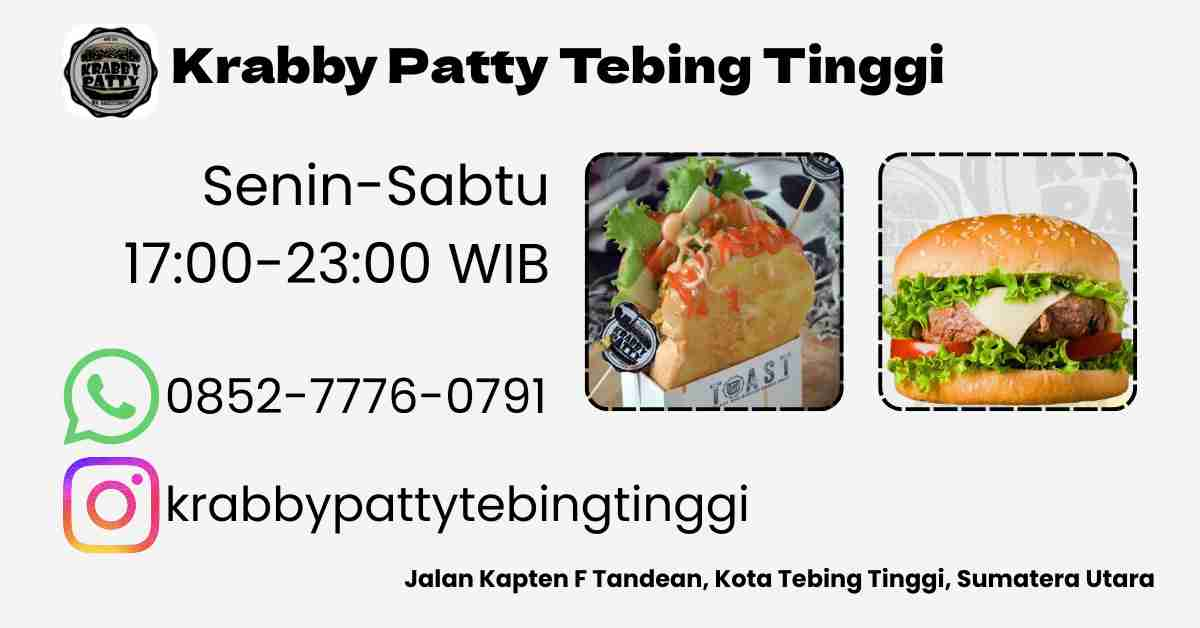
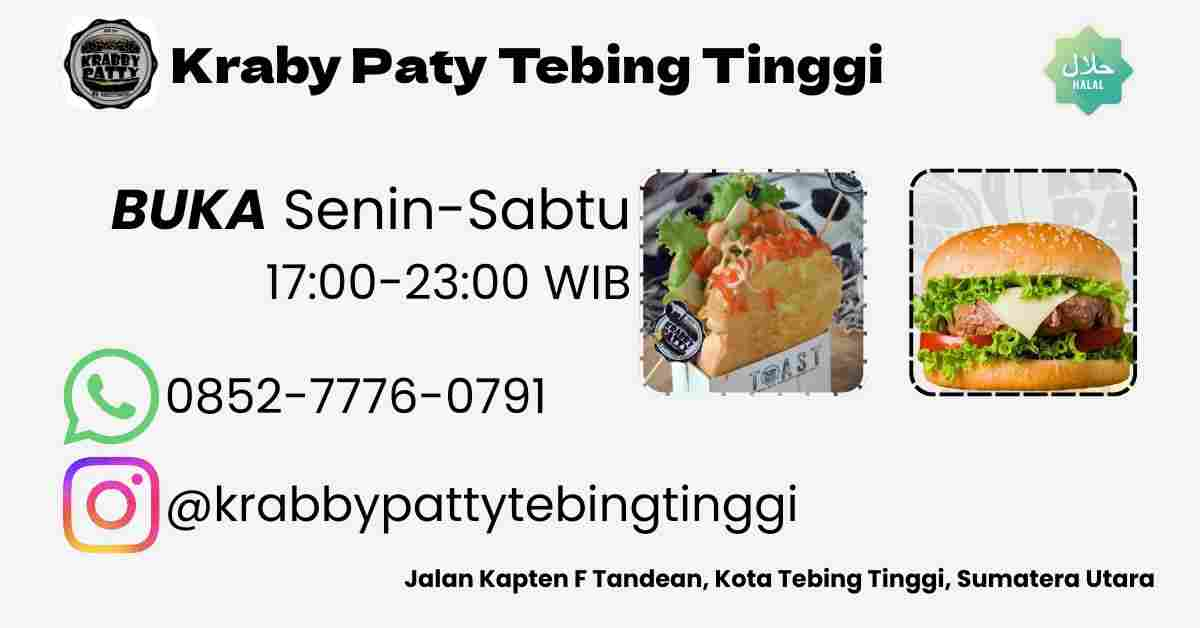
feat: navigation menu; refactor: workspace directory, merge stylesheet
five navigation links, three to be implemented. moved fonts and css into a new directory

diff --git a/index.html b/index.html
@@ -4,7 +4,7 @@
     <meta charset="UTF-8" />
     <link rel="icon" type="image/x-icon" href="/favicon.ico" />
     <meta name="viewport" content="width=device-width, initial-scale=1.0" />
-    <title>Kraby Patty Tebing Tinggi</title>
+    <title>Kraby Paty Tebing Tinggi</title>
     <meta
       property="description"
       content="HALAL FOOD. Senin-Sabtu, 17:00-23:00 WIB. Kota Tebing Tinggi, Sumatera Utara"
@@ -12,33 +12,33 @@
 
     <meta
       property="twitter:image"
-      content="https://krabypatty-tebingtinggi.vercel.app/summary_large_image.jpg"
+      content="https://krabypaty-tebingtinggi.vercel.app/summary_large_image.jpg"
     />
     <meta property="twitter:card" content="summary_large_image" />
-    <meta property="twitter:title" content="Kraby Patty Tebing Tinggi" />
+    <meta property="twitter:title" content="Kraby Paty Tebing Tinggi" />
     <meta
       property="twitter:description"
       content="HALAL FOOD. Senin-Sabtu, 17:00-23:00 WIB. Kota Tebing Tinggi, Sumatera Utara"
     />
 
-    <meta property="og:title" content="Kraby Patty Tebing Tinggi" />
+    <meta property="og:title" content="Kraby Paty Tebing Tinggi" />
     <meta
       property="og:image"
-      content="https://krabypatty-tebingtinggi.vercel.app/summary_large_image.jpg"
+      content="https://krabypaty-tebingtinggi.vercel.app/summary_large_image.jpg"
     />
-    <meta property="og:site_name" content="Kraby Patty Tebing Tinggi" />
+    <meta property="og:site_name" content="Kraby Paty Tebing Tinggi" />
     <meta
       property="og:description"
       content="HALAL FOOD. Senin-Sabtu, 17:00-23:00 WIB. Kota Tebing Tinggi, Sumatera Utara"
     />
     <meta
       property="og:url"
-      content="https://Krabypatty-tebingtinggi.vercel.app/"
+      content="https://krabypaty-tebingtinggi.vercel.app/"
     />
 
     <meta property="og:image:width" content="1200" />
     <meta property="og:image:height" content="628" />
-    <meta property="og:image:alt" content="Kraby Patty Tebing Tinggi" />
+    <meta property="og:image:alt" content="Kraby Paty Tebing Tinggi" />
     <meta property="og:type" content="website" />
   </head>
   <body>

diff --git a/src/app.jsx b/src/app.jsx
@@ -1,21 +1,47 @@
-import './app.css'
 import { HeroSection } from './HeroSection'
 import { MenuSection } from './MenuSection'
+import { PageNav } from './PageNav'
+import { MenuSquare } from 'lucide-preact'
+import { useState } from 'preact/hooks'
+import { navigationLinks } from './data/navigationLinks'
 
 export function App() {
+  const [navOpen, setNavOpen] = useState(false)
   return (
     <>
-      <div>
-        <header className="bg-red-400 sm:p-4">
-          <a href="#">
-            <h1 className="font-display border-b-2 text-center text-2xl not-sm:text-balance sm:text-4xl">
-              Kraby Patty Tebing Tinggi
-            </h1>
-          </a>
-        </header>
-        <HeroSection />
-        <MenuSection />
-      </div>
+      <header className="fixed top-0 right-0 left-0 z-10 flex min-h-16 min-w-full items-center justify-end bg-red-400 px-2 lg:py-2">
+        <a className="flex-1" href="#">
+          <h1 className="font-display text-shadow text-2xl not-sm:text-balance sm:text-3xl">
+            Kraby Paty Tebing Tinggi
+          </h1>
+        </a>
+
+        <div className="flex flex-wrap items-center gap-2 not-lg:hidden">
+          {navigationLinks.map(link => (
+            <a
+              key={link.label}
+              className="flex items-center truncate rounded-sm bg-zinc-50 px-1 text-xl text-zinc-950 capitalize"
+              href={link.href}
+            >
+              <link.icon size={20} />
+              {link.label}
+            </a>
+          ))}
+        </div>
+
+        <button
+          className="z-50 lg:hidden"
+          role="button"
+          aria-label="Navigation menu"
+          onClick={() => setNavOpen(!navOpen)}
+        >
+          <MenuSquare size={48} />
+        </button>
+      </header>
+
+      <HeroSection />
+      <MenuSection />
+      <PageNav isOpen={navOpen} onClose={() => setNavOpen(false)} />
     </>
   )
 }

diff --git a/src/assets/css/app.css b/src/assets/css/app.css
@@ -3,7 +3,7 @@
   font-family: 'Dela Gothic One';
   font-style: normal;
   font-weight: 400;
-  src: url('./assets/dela-gothic-one-v19-latin-regular.woff2') format('woff2');
+  src: url('../fonts/dela-gothic-one-v19-latin-regular.woff2') format('woff2');
 }
 
 @font-face {
@@ -11,28 +11,28 @@
   font-family: 'Fredoka';
   font-style: normal;
   font-weight: 400;
-  src: url('./assets/fredoka-v17-latin-regular.woff2') format('woff2');
+  src: url('../fonts/fredoka-v17-latin-regular.woff2') format('woff2');
 }
 @font-face {
   font-display: swap;
   font-family: 'Fredoka';
   font-style: normal;
   font-weight: 500;
-  src: url('./assets/fredoka-v17-latin-500.woff2') format('woff2');
+  src: url('../fonts/fredoka-v17-latin-500.woff2') format('woff2');
 }
 @font-face {
   font-display: swap;
   font-family: 'Fredoka';
   font-style: normal;
   font-weight: 600;
-  src: url('./assets/fredoka-v17-latin-600.woff2') format('woff2');
+  src: url('../fonts/fredoka-v17-latin-600.woff2') format('woff2');
 }
 @font-face {
   font-display: swap;
   font-family: 'Fredoka';
   font-style: normal;
   font-weight: 700;
-  src: url('./assets/fredoka-v17-latin-700.woff2') format('woff2');
+  src: url('../fonts/fredoka-v17-latin-700.woff2') format('woff2');
 }
 
 @font-face {
@@ -40,7 +40,7 @@
   font-family: 'Lobster';
   font-style: normal;
   font-weight: 400;
-  src: url('./assets/lobster-v32-latin-regular.woff2') format('woff2');
+  src: url('../fonts/lobster-v32-latin-regular.woff2') format('woff2');
 }
 
 @theme {
@@ -71,3 +71,5 @@
 html {
   scroll-behavior: smooth;
 }
+
+@import 'tailwindcss';

diff --git a/src/data/fullMenu.js b/src/data/fullMenu.js
@@ -1,10 +1,9 @@
-import imgBurgerChickenSingle from './assets/image/burger_chicken_single.webp'
-import imgBurgerChickenDouble from './assets/image/burger_chicken_double.webp'
-import imgBurgerBeefSingle from './assets/image/burger_beef_single.webp'
-import imgBurgerBeefDouble from './assets/image/burger_beef_double.webp'
-import eggToastImg from './assets/image/toast_egg.webp'
-import chickenToastImg from './assets/image/toast_chicken.webp'
-import beefToastImg from './assets/image/toast_beef.webp'
+import imgBurgerChickenSingle from '../assets/image/burger_chicken_single.webp'
+import imgBurgerChickenDouble from '../assets/image/burger_chicken_double.webp'
+import imgBurgerBeefSingle from '../assets/image/burger_beef_single.webp'
+import imgBurgerBeefDouble from '../assets/image/burger_beef_double.webp'
+import chickenToastImg from '../assets/image/toast_chicken.webp'
+import beefToastImg from '../assets/image/toast_beef.webp'
 
 export const fullMenu = [
   {
@@ -48,16 +47,6 @@ export const fullMenu = [
     price: 28000,
     image: imgBurgerBeefDouble,
     tags: ['burger', 'beef', 'double'],
-  },
-  {
-    id: 'toast-egg',
-    category: 'toast',
-    subcategory: 'egg',
-    label: 'Egg Toast',
-    description: 'Fried egg, cheese, sauce, mayonnaise',
-    price: 19000,
-    image: eggToastImg,
-    tags: ['toast', 'egg'],
   },
   {
     id: 'toast-chicken',

diff --git a/src/PageNav.jsx b/src/PageNav.jsx
@@ -1,0 +1,30 @@
+import { navigationLinks } from './data/navigationLinks'
+import { ArrowBigRightDash } from 'lucide-preact'
+
+export function PageNav({ isOpen, onClose }) {
+  return (
+    <nav
+      className={`fixed inset-0 left-[60%] z-10 space-y-4 border-l p-2 backdrop-blur-xs transition-transform lg:hidden ${isOpen ? '' : 'translate-x-full'}`}
+    >
+      <button
+        className="flex items-center gap-2 truncate rounded-md border bg-zinc-50 px-1 text-2xl capitalize dark:bg-zinc-950"
+        onClick={onClose}
+      >
+        Kembali <ArrowBigRightDash />
+      </button>
+      {navigationLinks.map(link => {
+        return (
+          <a
+            className="flex items-center gap-2 truncate rounded-md border bg-zinc-50 px-1 text-2xl capitalize dark:bg-zinc-950"
+            key={link.label}
+            href={link.href}
+            onClick={onClose}
+          >
+            <link.icon size={24} />
+            {link.label}
+          </a>
+        )
+      })}
+    </nav>
+  )
+}

diff --git a/src/HeroSection.jsx b/src/HeroSection.jsx
@@ -3,8 +3,13 @@ import { MenuList } from './components/MenuList'
 
 export function HeroSection() {
   return (
-    <section id="home" className="mx-2 mt-4 sm:mt-8">
-      <h2 className="font-cursive text-center text-2xl tracking-wide">
+    <section id="home" className="px-2 pt-4 sm:pt-8">
+      <p className="text-shadow mt-16 text-center text-sm font-semibold text-pretty sm:text-lg">
+        HALAL FOOD. Senin-Sabtu, 17:00-23:00 WIB. Kota Tebing Tinggi, Sumatera
+        Utara
+      </p>
+
+      <h2 className="font-cursive mt-2 text-center text-2xl tracking-wide">
         Menu Pilihan
       </h2>
 

diff --git a/src/data/navigationLinks.js b/src/data/navigationLinks.js
@@ -1,0 +1,9 @@
+import { Home, UtensilsCrossed, MapPin, Info, Phone } from 'lucide-preact'
+
+export const navigationLinks = [
+  { label: 'beranda', href: '#', icon: Home },
+  { label: 'menu', href: '#menu', icon: UtensilsCrossed },
+  { label: 'kami', href: '#about', icon: Info },
+  { label: 'lokasi', href: '#location', icon: MapPin },
+  { label: 'hubungi', href: '#contact', icon: Phone },
+]

diff --git a/src/MenuSection.jsx b/src/MenuSection.jsx
@@ -2,7 +2,7 @@ import { MenuList } from './components/MenuList'
 
 export function MenuSection() {
   return (
-    <section id="menu" className="mt-8">
+    <section id="menu" className="px-2 pt-16">
       <h2 className="font-cursive text-center text-2xl tracking-wide">
         Menu Selengkapnya
       </h2>

diff --git a/src/components/MenuList.jsx b/src/components/MenuList.jsx
@@ -1,4 +1,4 @@
-import { fullMenu } from '../fullMenu'
+import { fullMenu } from '../data/fullMenu'
 import { OrderCTA } from './OrderCTA'
 
 const formatPrice = price => `Rp${price.toLocaleString('id-ID')}`

diff --git a/src/main.jsx b/src/main.jsx
@@ -1,5 +1,5 @@
 import { render } from 'preact'
-import './app.css'
+import './assets/css/app.css'
 import { App } from './app.jsx'
 
 render(<App />, document.getElementById('app'))

diff --git a/README.md b/README.md
@@ -1,0 +1,32 @@
+# Kraby Paty Tebing Tinggi
+
+> [!NOTE] This is a landing page built for a local burger UMKM to promote their
+> business and strengthen their online presence.
+
+> [!IMPORTANT] The source code is licensed under the MIT License.  
+> Business name, image, and content are used for demonstration purposes and are
+> not licensed for reuse.
+
+### About the Business
+
+A small local burger shop operating at night in Tebing Tinggi. This website
+helps customers quickly view featured menu items and order via GoFood or
+GrabFood.
+
+### Project Goals
+
+- Provide a fast, mobile-friendly landing page
+- Highlight featured menu items with clear pricing
+- Redirect users directly to GoFood or GrabFood for ordering
+
+### Features
+
+- GoFood and GrabFood CTA
+- Simple, distraction-free layout
+- Optimized for speed and mobile-first
+
+### Tech Stack
+
+- Vite + Preact
+- Tailwind CSS
+- Vercel ([visit website](https://krabypaty-tebingtinggi.vercel.app))
